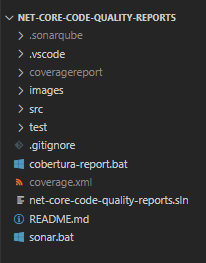
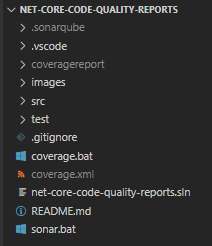
readme

Changed region(s): [[0.0291, 0.0, 0.932, 0.9675], [0.0874, 0.4553, 0.1165, 0.5122], [0.0583, 0.5407, 0.1165, 0.5691]]

diff --git a/README.md b/README.md
@@ -16,7 +16,7 @@ coverage.bat - gerate local coverage html report:
  start .\coveragereport\index.htm
 ```
 
-![Code coverage](./images/cobertura.png)
+![Code coverage](./images/coverage.png)
 
 run sonarqube:
 
